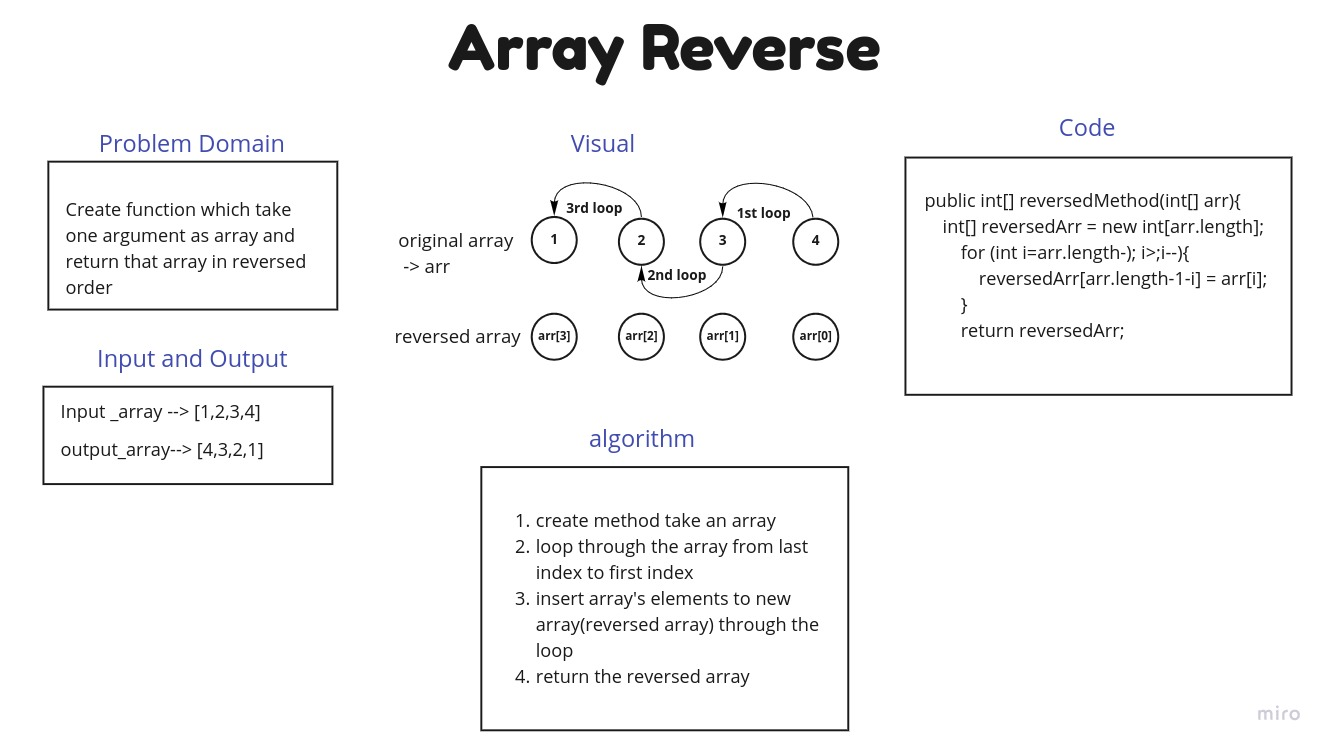
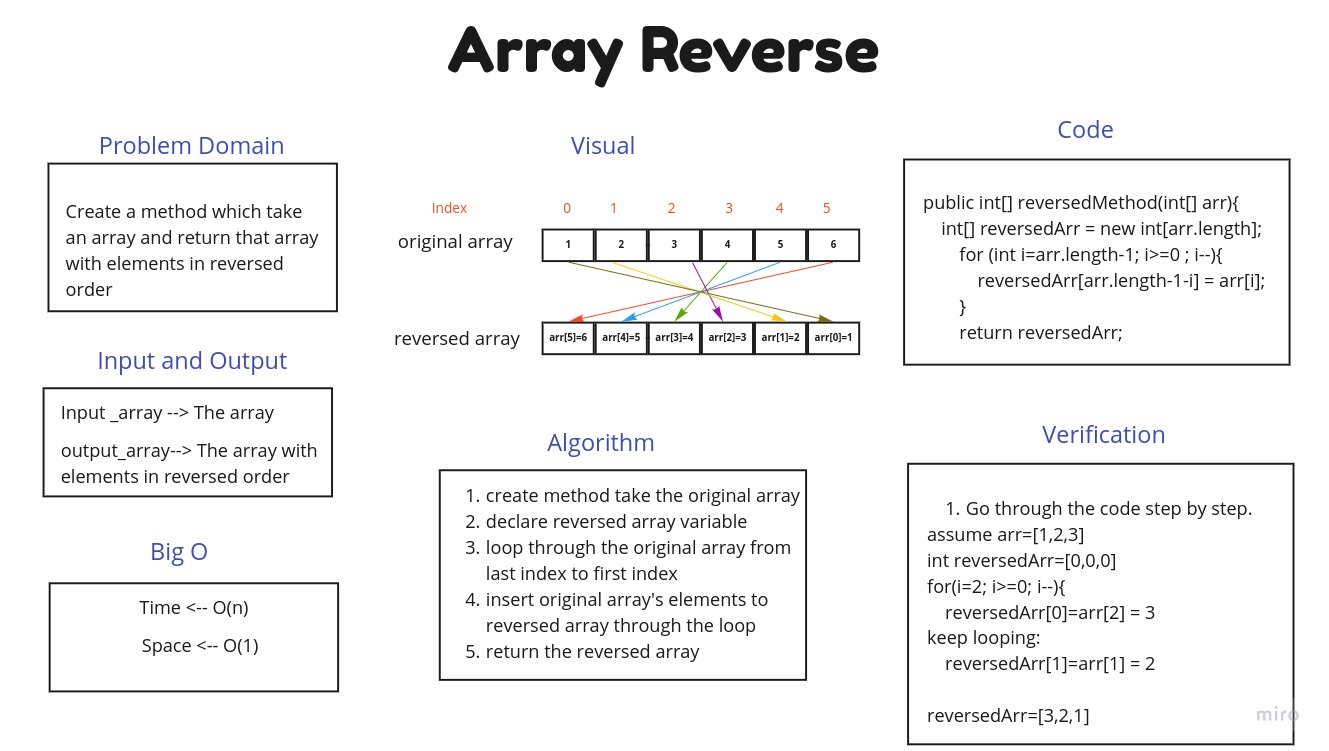
reversed array edit white board

diff --git a/java/code_challenges/array-reverse/README.md b/java/code_challenges/array-reverse/README.md
@@ -6,3 +6,10 @@ A function that takes an array and return a new array with elements in reversed 
 
 ![array-reverse](/java/code_challenges/array-reverse/assets/array-reverse.jpg)
 
+## Approach & Efficiency
+I used a for loop approach to solve this problem.
+
+The big O notion:
+Time : O(n) 
+Space : O(1) 
+
